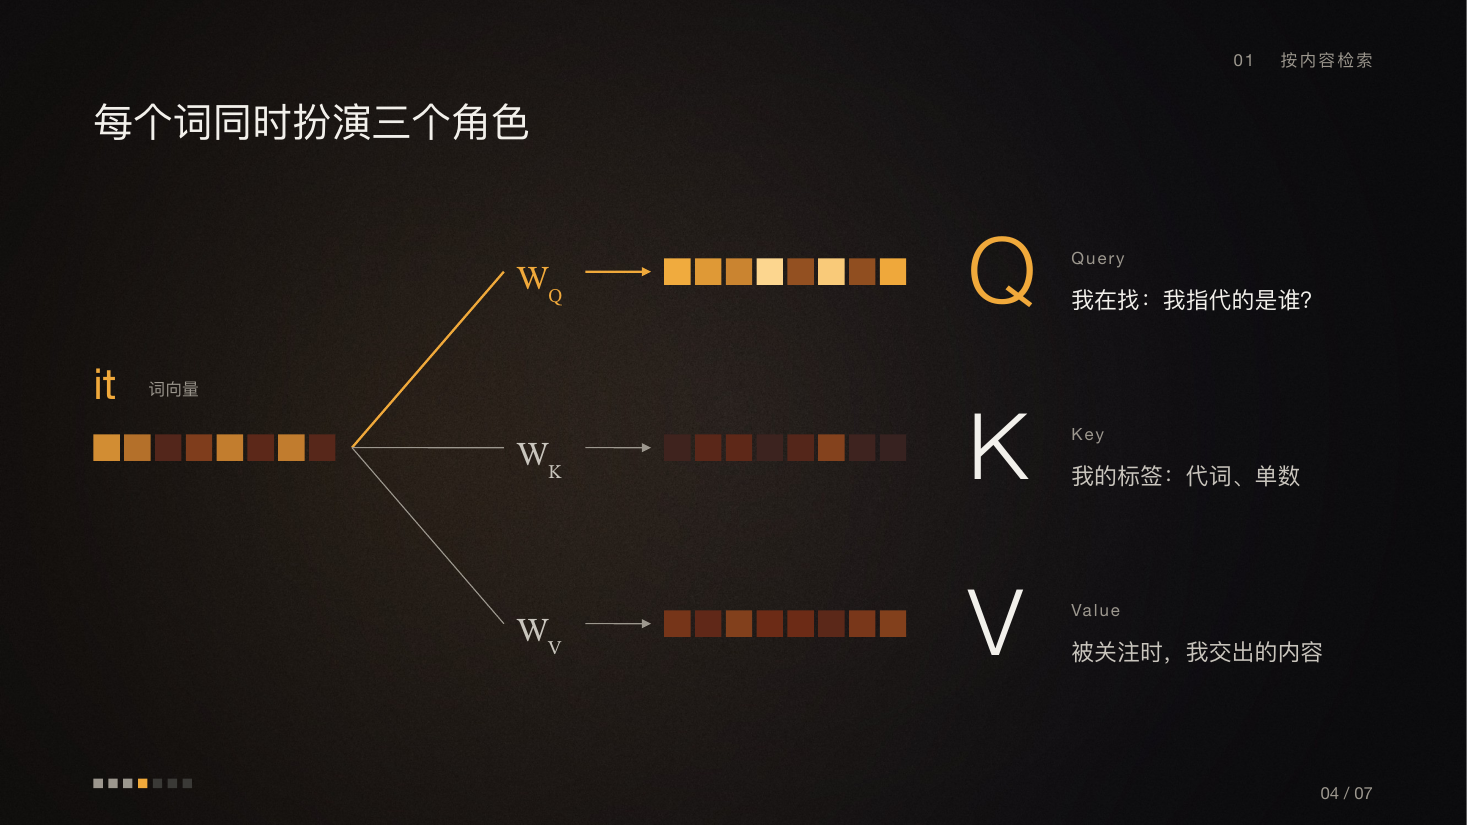
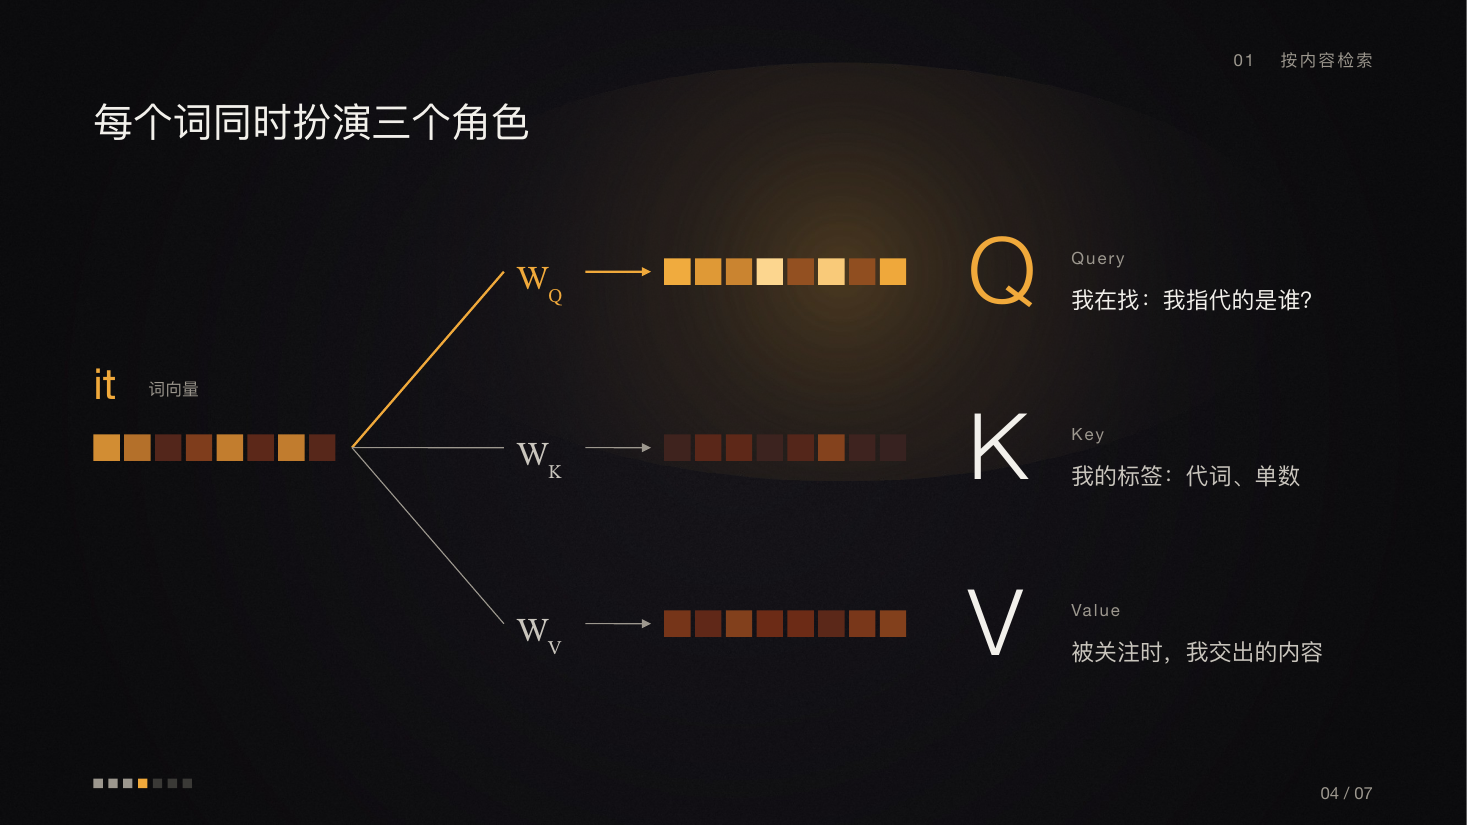
light as a moving spotlight: k.light on each page's focus, gliding with Morph
- kit: k.light({ cx, cy, rx, ry }) — an ellipse whose fill post-processing
  rewrites to a radial gradient fading to the page colour (blends even where
  alpha is ignored) and sends to the back; shared Morph name 'light'
- example: static room texture (grain + vignette); each page lights its own
  focus; deck-wide Morph (1.4 s) makes the light glide between foci
- guides: composition (light on the visual center), motion (moving light),
  engine API

Changed region(s): [[0.5215, 0.2121, 0.6442, 0.4242], [0.2761, 0.4848, 0.3067, 0.6061]]

diff --git a/engine/lib/post.js b/engine/lib/post.js
@@ -58,7 +58,30 @@ function timingXml(xml, builds) {
   };
 }
 
-async function postProcess(buffer, { transitions, fontPairs, builds = [] }) {
+// Light pools: replace the placeholder fill of the '!!light' ellipse with a radial gradient that fades to the
+// page colour (so even renderers that ignore alpha blend the edge), and move it to the back of the slide.
+function applyLight(xml, spec) {
+  if (!spec) return xml;
+  const m = xml.match(/<p:sp>(?:(?!<\/p:sp>)[\s\S])*?name="!!light"[\s\S]*?<\/p:sp>/);
+  if (!m) throw new Error('light shape not found');
+  const mid = mixHex(spec.edge, spec.color, 0.45);
+  const a = Math.round(100000 * Math.min(1, spec.strength));
+  const grad = `<a:gradFill rotWithShape="1"><a:gsLst>`
+    + `<a:gs pos="0"><a:srgbClr val="${spec.color}"><a:alpha val="${a}"/></a:srgbClr></a:gs>`
+    + `<a:gs pos="35000"><a:srgbClr val="${mid}"><a:alpha val="${Math.round(a * 0.65)}"/></a:srgbClr></a:gs>`
+    + `<a:gs pos="70000"><a:srgbClr val="${mixHex(spec.edge, spec.color, 0.12)}"><a:alpha val="${Math.round(a * 0.2)}"/></a:srgbClr></a:gs>`
+    + `<a:gs pos="100000"><a:srgbClr val="${spec.edge}"><a:alpha val="0"/></a:srgbClr></a:gs>`
+    + `</a:gsLst><a:path path="circle"><a:fillToRect l="50000" t="50000" r="50000" b="50000"/></a:path></a:gradFill>`;
+  const sp = m[0].replace(/<a:solidFill>[\s\S]*?<\/a:solidFill>/, grad);
+  const without = xml.replace(m[0], '');
+  return without.replace(/(<p:spTree>[\s\S]*?<\/p:grpSpPr>)/, `$1${sp}`);
+}
+function mixHex(a, b, t) {
+  const p = [0, 2, 4].map((i) => parseInt(a.slice(i, i + 2), 16)), q = [0, 2, 4].map((i) => parseInt(b.slice(i, i + 2), 16));
+  return p.map((v, i) => Math.round(v + (q[i] - v) * t).toString(16).padStart(2, '0')).join('').toUpperCase();
+}
+
+async function postProcess(buffer, { transitions, fontPairs, builds = [], lights = [] }) {
   const zip = await JSZip.loadAsync(buffer);
   for (let i = 0; i < transitions.length; i++) {
     const file = `ppt/slides/slide${i + 1}.xml`;
@@ -70,6 +93,8 @@ async function postProcess(buffer, { transitions, fontPairs, builds = [] }) {
     }
     const tx = transitionXml(transitions[i]);
     if (tx) xml = xml.replace('</p:clrMapOvr>', `</p:clrMapOvr>${tx}`);
+    if (lights[i] && lights[i].length > 1) throw new Error(`slide ${i + 1}: only one light per slide`);
+    xml = applyLight(xml, lights[i] && lights[i][0]);
     const tm = timingXml(xml, builds[i]);
     if (tm.missing.length) throw new Error(`slide ${i + 1}: build targets not found in XML: ${tm.missing.join(', ')}`);
     if (tm.xml) xml = xml.replace('</p:sld>', `${tm.xml}</p:sld>`);

diff --git a/engine/lib/kit.js b/engine/lib/kit.js
@@ -171,6 +171,20 @@ function makeKit({ pptx, slide, theme, deckDir, slideId, page }) {
     record('shape', o, { allowOverlap: true });
   }
 
+  // ---- light ----
+  // A soft pool of light on the page's focus: an ellipse with a radial gradient fading to the page colour.
+  // Every page's light shares the Morph name 'light', so with Morph transitions it glides from focus to focus.
+  // Post-processing rewrites the fill and sends it to the back.
+  const lights = [];
+  function light(o) { // { cx, cy, rx, ry = rx * 0.75, color = theme.colors.glow, strength = 1 }
+    const rx = o.rx ?? 3.5, ry = o.ry ?? rx * 0.75;
+    const box = { x: o.cx - rx, y: o.cy - ry, w: 2 * rx, h: 2 * ry };
+    slide.addShape(pptx.ShapeType.ellipse, { ...box, fill: { color: 'FF00FF' }, line: { type: 'none' }, objectName: '!!light' });
+    lights.push({ color: color(o.color || theme.colors.glow || 'accent'), edge: bgColor, strength: o.strength ?? 1 });
+    record('light', box, { bleed: true, allowOverlap: true });
+    return box;
+  }
+
   // ---- images ----
   // fit: 'cover' (fill box, crop overflow) | 'contain' (fit inside) ; focus: {x:0..1,y:0..1} crop anchor for cover
   function image(src, o) {
@@ -266,8 +280,8 @@ function makeKit({ pptx, slide, theme, deckDir, slideId, page }) {
   return {
     theme, W, H, M, innerW, colW, col, span, color, face, mix,
     page, // { id, index, total } — for running heads and progress marks
-    text, rect, line, arc, rule, vrule, dot, shape, image, chart, table, bg, bgImage, notes,
-    _qa: () => ({ boxes, bg: bgColor }), _builds: () => builds, _slide: slide, _pptx: pptx,
+    text, rect, line, arc, rule, vrule, dot, shape, image, chart, table, light, bg, bgImage, notes,
+    _qa: () => ({ boxes, bg: bgColor }), _builds: () => builds, _lights: () => lights, _slide: slide, _pptx: pptx,
   };
 }
 

diff --git a/examples/attention/slides/S04-qkv.js b/examples/attention/slides/S04-qkv.js
@@ -1,6 +1,6 @@
 // S04 — 变换流程：it 的词向量经三个矩阵分出 Q / K / V。视觉中心：被点亮的 Q 一行（它要去“找”）。
 // 逐行出现：Q → K → V。q / k / v 与 q-vec 同名，Morph 到 S05。
-const { vector, room, frame } = require('../parts');
+const { vector, frame } = require('../parts');
 
 const ROLES = [
   { L: 'Q', name: 'q', en: 'Query', zh: '我在找：我指代的是谁？', seed: 3, lo: 0.45, hi: 1 },
@@ -14,7 +14,6 @@ module.exports = {
   title: 'Q K V',
   notes: '模型怎么“看”？每个词先派生出三个向量。以 it 为例：词向量分别乘以三个可学习的矩阵 W_Q、W_K、W_V。（单击 1：Query——它在找什么。单击 2：Key——它能被怎样找到。单击 3：Value——被关注时交出的内容。）',
   build(k) {
-    room(k, 'left');
     frame(k, { section: '01', name: '按内容检索' });
     k.text('每个词同时扮演三个角色', { style: 'title', x: k.M.x, y: k.M.top, w: 8, nowrap: true });
 
@@ -25,6 +24,7 @@ module.exports = {
     k.text('词向量', { style: 'caption', x: k.M.x + 0.5, y: inY - 0.6, w: 1.2, nowrap: true });
 
     const opX = k.col(5) - 0.1, outX = k.col(6) + 0.25, letterX = k.col(9) + 0.05, textX = k.col(10);
+    k.light({ cx: outX + 1.6, cy: rows[0] + 0.12, rx: 4.2, ry: 1.9 }); // the Query row
     ROLES.forEach((r, i) => {
       const y = rows[i], hot = i === 0, step = i + 1;
       k.line({ x1: input.right + 0.15, y1: input.cy, x2: opX - 0.12, y2: y + 0.12, color: hot ? 'accent' : 'stone', weight: hot ? 1.5 : 0.75, build: step });

diff --git a/examples/attention/slides/S07-heads.js b/examples/attention/slides/S07-heads.js
@@ -1,6 +1,6 @@
 // S07 — 章节：02 多头注意力。同一间暗室里，一束光分成四束：四张小矩阵，各自照亮不同的规律。
 // 视觉中心：四个头。与整套同一个世界，靠更大的尺度和更多的光来“换气”，不换底色。
-const { matrix, room } = require('../parts');
+const { matrix } = require('../parts');
 
 const HEADS = [
   { name: '指代', f: (r, c) => (r === 6 && c === 1 ? 1 : Math.exp(-Math.abs(r - c) * 2) * 0.3) },
@@ -15,13 +15,13 @@ module.exports = {
   title: '章节：多头注意力',
   notes: '第二部分：一组 Q/K/V 只能学到一种“相关”。多头注意力并行地问多个问题——有的头专门找指代，有的看相邻的词，有的盯着句首。',
   build(k) {
-    room(k, 'right');
     k.text('02', { style: 'number', x: k.M.x, y: 2.0, w: 3, overlap: true, nowrap: true });
     k.text('多头注意力', { style: 'display', x: k.M.x, y: 3.6, w: 5.5, h: 1.25, nowrap: true });
     k.text('同时问多个问题', { style: 'lead', color: 'stone', x: k.M.x, y: 4.95, w: 5, nowrap: true });
 
     const n = 8, cell = 0.21, gap = 0.04, size = n * (cell + gap) - gap;
     const x0 = 6.9, y0 = 1.45, gx = 0.55, gy = 0.75;
+    k.light({ cx: x0 + size + gx / 2, cy: y0 + size + gy / 2, rx: 4.4, ry: 3.6 }); // the four heads
     HEADS.forEach((h, i) => {
       const x = x0 + (i % 2) * (size + gx), y = y0 + Math.floor(i / 2) * (size + gy);
       matrix(k, { x, y, n, cell, gap, weight: h.f, build: [1, 0, i * 150] }); // each head at once, 150 ms apart

diff --git a/examples/attention/slides/S05-match.js b/examples/attention/slides/S05-match.js
@@ -1,6 +1,6 @@
 // S05 — 匹配 ★：it 的 Q 依次与各词的 K 比较，得分经 softmax 变成权重；权重按亮度点亮，最亮的是 animal。
 // 视觉中心：0.46 那根最亮的权重条。Morph 自 S04（q / k / v / q-vec 同名）。权重与 S03 一致（节选）。
-const { vector, heat, room, frame } = require('../parts');
+const { vector, heat, frame } = require('../parts');
 
 const KEYS = [
   { t: 'The', w: 0.02, seed: 21 },
@@ -14,10 +14,8 @@ module.exports = {
   id: 'S05',
   rhythm: 'dense',
   title: 'Q 与 K 匹配',
-  transition: 'morph',
   notes: 'it 的 Query 依次与每个词的 Key 做点积，得到匹配分数（单击 1）；softmax 把分数变成权重——animal 最亮，0.46（单击 2）；最后按权重把各词的 Value 加权求和，得到 it 的新表示（单击 3）。图中只列出 5 个词，权重为示意值。',
   build(k) {
-    room(k, 'right');
     frame(k, { section: '01', name: '按内容检索' });
     k.text('匹配度，决定从每个词取多少', { style: 'title', x: k.M.x, y: k.M.top, w: 9, nowrap: true });
 
@@ -45,6 +43,7 @@ module.exports = {
 
     // ③ softmax weights — the light
     const barX = keyRight + 0.5, barMax = 2.7;
+    k.light({ cx: barX + 1.3, cy: rowsY[1] + 0.12, rx: 3.6, ry: 2.2 }); // the 0.46 bar
     k.text('softmax 权重', { style: 'label', x: barX, y: top - 0.62, w: 2, nowrap: true });
     KEYS.forEach((r, i) => {
       const y = rowsY[i], lit = r.w >= 0.4, bw = Math.max(0.05, (r.w / 0.5) * barMax);

diff --git a/examples/attention/slides/S06-cost.js b/examples/attention/slides/S06-cost.js
@@ -1,6 +1,6 @@
 // S06 — 代价：每个词都要看每个词，矩阵是 n × n。长度翻倍，格子变为四倍。视觉中心：最大的那张矩阵。
 // 逐步出现：4×4 → 8×8 → 16×16，每次一个 ×4。格子数量是准确的（16、64、256）。
-const { matrix, room, frame, dim } = require('../parts');
+const { matrix, frame, dim } = require('../parts');
 
 const pattern = (n) => (r, c) => {
   const local = Math.exp(-Math.abs(r - c) * (6 / n)) * 0.75;
@@ -14,13 +14,14 @@ module.exports = {
   title: '平方代价',
   notes: '代价在这里：每个词都要看每个词，所以注意力矩阵是 n × n。（单击 1：长度从 4 到 8，格子从 16 到 64。单击 2：到 16，格子 256。）长度每翻一倍，计算量和显存约变为四倍——这也是长文本昂贵的根本原因。',
   build(k) {
-    room(k, 'right');
     frame(k, { section: '01', name: '按内容检索' });
     k.text([{ text: '长度翻倍，代价变为' }, { text: '四倍', color: 'accent' }], { style: 'title', x: k.M.x, y: k.M.top, w: 9, nowrap: true });
 
     const pitch = 0.205, gap = 0.035, cell = pitch - gap;
     const baseY = 5.75; // shared baseline: matrices sit on it
     const specs = [{ n: 4, x: k.M.x + 0.3 }, { n: 8, x: 3.35 }, { n: 16, x: 6.7 }];
+    const big = 16 * pitch - gap;
+    k.light({ cx: specs[2].x + big / 2, cy: baseY - big / 2, rx: 3.6, ry: 3.1 }); // the largest matrix
     let prev;
     specs.forEach((s, i) => {
       const size = s.n * pitch - gap;

diff --git a/examples/attention/slides/S03-light.js b/examples/attention/slides/S03-light.js
@@ -1,15 +1,13 @@
 // S03 — 光 ★：从 it 出发，向每个词伸出一道弧；弧的粗细与亮度就是注意力。最粗最亮的一道落在 animal 上。
 // 视觉中心：it → animal 的弧与被点亮的 animal。Morph 自 S02（tok-* 同名同位）。
-const { TOKENS, IT, WEIGHTS, heat, room, frame, sentence, leader } = require('../parts');
+const { TOKENS, IT, WEIGHTS, heat, frame, sentence, leader } = require('../parts');
 
 module.exports = {
   id: 'S03',
   rhythm: 'dense',
   title: 'it 看向 animal',
-  transition: 'morph',
   notes: '模型的做法：让 it 去“看”句子里的每一个词，并给每个词一个注意力权重。（单击 1：微弱的连线依次亮起。单击 2：street 和 animal 两道最亮的弧。单击 3：结论。）animal 拿到 0.46，street 0.17——it 指的是 animal。权重为示意值。',
   build(k) {
-    room(k, 'it');
     frame(k, { section: '01', name: '按内容检索' });
     k.text([
       { text: 'it', font: 'latin', color: 'accent' },
@@ -20,6 +18,7 @@ module.exports = {
     const xs = sentence(k);
     const y = 4.95, base = y - 0.1;
     const it = xs[IT];
+    k.light({ cx: xs[1].cx + (it.cx - xs[1].cx) * 0.3, cy: base - 0.7, rx: 4.6, ry: 2.8 }); // the light moves onto animal
     // arcs: weak first (click 1, staggered), then the two strong ones (click 2)
     const order = TOKENS.map((_, i) => i).filter((i) => i !== IT).sort((a, b) => WEIGHTS[a] - WEIGHTS[b]);
     let weak = 0;

diff --git a/engine/make.js b/engine/make.js
@@ -66,7 +66,7 @@ async function build(opt) {
   pptx.title = deck.title || name;
   if (deck.author) pptx.author = deck.author;
 
-  const manifest = [], transitions = [], reports = [], builds = [];
+  const manifest = [], transitions = [], reports = [], builds = [], lights = [];
   for (const [index, id] of deck.slides.entries()) {
     const file = findSlideFile(opt.dir, id);
     const mod = fresh(file);
@@ -82,13 +82,14 @@ async function build(opt) {
     if (mod.notes) k.notes(String(mod.notes).trim());
     transitions.push(mod.transition || theme.transition || 'none');
     builds.push(k._builds());
+    lights.push(k._lights());
     manifest.push({ id, index: index + 1, title: mod.title || '', rhythm: mod.rhythm || '', file: path.relative(opt.dir, file) });
     const q = k._qa();
     reports.push(check({ id, boxes: q.boxes, bg: q.bg, W, H, M: k.M, rhythm: mod.rhythm, textOnly: mod.textOnly }));
   }
 
   const raw = await pptx.write({ outputType: 'nodebuffer' });
-  const buf = await postProcess(raw, { transitions, fontPairs: theme.fontPairs, builds });
+  const buf = await postProcess(raw, { transitions, fontPairs: theme.fontPairs, builds, lights });
   const outDir = path.join(opt.dir, 'out');
   fs.mkdirSync(outDir, { recursive: true });
   const pptxPath = path.join(outDir, `${name}.pptx`);

diff --git a/examples/attention/theme.js b/examples/attention/theme.js
@@ -15,6 +15,7 @@ module.exports = {
     accent: 'F0A93B',    // amber: attention, light
     hot: 'FFE2A6',       // the brightest point on a page
     ember: '6B2A16',     // dim heat
+    glow: '4A3820',      // the light pool on each page's focus (k.light)
   },
   fonts: {
     sans: 'PingFang SC',
@@ -23,8 +24,9 @@ module.exports = {
     mono: 'Menlo',
   },
   fontPairs: { 'PingFang SC': 'Helvetica Neue' }, // regular weight only — see typography.md
-  // Default ground; pages pick a texture lit from where their visual center is (parts.room).
-  backgroundImages: { paper: 'assets/room-center.jpg' },
+  // The room: base + very fine grain + darkened corners. The light itself is a shape (k.light) on each page's focus,
+  // so it can glide between pages with Morph.
+  backgroundImages: { paper: 'assets/room.jpg' },
   grid: { margin: { x: 0.85, top: 0.75, bottom: 0.6 }, cols: 12, gutter: 0.22 },
   type: {
     display: { font: 'sans', size: 60, leading: 1.15, color: 'ink' },
@@ -40,5 +42,5 @@ module.exports = {
     math: { font: 'STIX Two Math', size: 22, leading: 1.2, color: 'graphite' },
   },
   chart: { series: ['accent', 'stone'] },
-  transition: 'fade',
+  transition: { type: 'morph', duration: 1400 }, // every page: the light glides to the next focus
 };

diff --git a/examples/attention/slides/S02-question.js b/examples/attention/slides/S02-question.js
@@ -1,6 +1,6 @@
 // S02 — 问题：一句话里的词都还暗着，只有 it 亮着。它指的是谁？两条虚线伸向两个候选。视觉中心：it。
 // 词的位置与 S03 完全相同（同名 tok-*），下一页 Morph 时，光从这里开始蔓延。
-const { TOKENS, IT, room, frame, sentence } = require('../parts');
+const { TOKENS, IT, frame, sentence } = require('../parts');
 
 module.exports = {
   id: 'S02',
@@ -8,12 +8,12 @@ module.exports = {
   title: 'it 指的是谁',
   notes: '先抛出问题：这句话里的 it，指的是 animal 还是 street？人一眼就知道，因为我们会“看”上下文。模型要怎么做到？（单击：两条虚线伸向两个候选。）',
   build(k) {
-    room(k, 'it');
     frame(k, { section: '01', name: '按内容检索' });
     k.text('一个词的含义，取决于它在看谁', { style: 'statement', x: k.M.x, y: 1.2, w: 10, nowrap: true });
 
     const xs = sentence(k);
     const y = 4.95;
+    k.light({ cx: xs[IT].cx, cy: y + 0.2, rx: 2.6, ry: 1.9 }); // only “it” is lit
     xs.forEach((p, i) => {
       k.text(TOKENS[i], { style: 'word', color: i === IT ? 'hot' : 'stone', x: p.x - 0.1, y, w: p.w + 0.2, h: 0.5, align: 'center', nowrap: true, name: `tok-${i}` });
     });

diff --git a/examples/attention/slides/S01-cover.js b/examples/attention/slides/S01-cover.js
@@ -1,5 +1,5 @@
 // S01 — 封面 ★：暗室里一张注意力矩阵是唯一的光源；最亮的一格是 it → animal。视觉中心：那一格。
-const { TOKENS, IT, heat, room } = require('../parts');
+const { TOKENS, IT, heat } = require('../parts');
 
 function weight(r, c) {
   if (r === IT && c === 1) return 1;                      // it → animal
@@ -16,9 +16,9 @@ module.exports = {
   transition: 'none',
   notes: '开场：今天只讲一个想法——注意力机制本质上是一次“按内容检索”。右侧是例句的注意力矩阵（示意），最亮的格子是 it 看向 animal。',
   build(k) {
-    room(k, 'cover');
     const N = TOKENS.length, cell = 0.5, gap = 0.06, pitch = cell + gap;
     const x0 = k.W - 0.55 - N * pitch + gap, y0 = (k.H - (N * pitch - gap)) / 2;
+    k.light({ cx: x0 + 1 * pitch + cell / 2, cy: y0 + IT * pitch + cell / 2, rx: 5, ry: 4.2, strength: 1 });
     for (let r = 0; r < N; r++) {
       for (let c = 0; c < N; c++) k.rect({ x: x0 + c * pitch, y: y0 + r * pitch, w: cell, h: cell, fill: heat(k, weight(r, c)) });
       k.text(TOKENS[r], { style: 'caption', font: 'latin', color: r === IT ? 'accent' : 'stone', x: x0 - 1.1, y: y0 + r * pitch + 0.12, w: 1.0, align: 'right', nowrap: true });

diff --git a/examples/attention/parts.js b/examples/attention/parts.js
@@ -25,10 +25,6 @@ function heat(k, t) {
   return k.color('hot');
 }
 
-// Lit room: the page texture with its light falloff placed behind the page's visual center
-// (generated with engine/texture.js --light; see assets/).
-function room(k, where) { k.bgImage(`assets/room-${where}.jpg`); }
-
 // A row of n cells (a vector), brightness from heat(). build = [step, delay] staggers the cells.
 function vector(k, { x, y, n = 8, cell = 0.24, gap = 0.04, seed = 1, lo = 0.1, hi = 0.6, name, build }) {
   values(seed, n).forEach((v, i) => {
@@ -89,4 +85,4 @@ function leader(k, { from, to, color = 'stone', dot = 'accent', build }) {
   k.dot({ cx: to.x, cy: to.y, r: 0.05, fill: dot, build });
 }
 
-module.exports = { TOKENS, IT, WEIGHTS, values, heat, room, vector, matrix, sentence, frame, dim, leader };
+module.exports = { TOKENS, IT, WEIGHTS, values, heat, vector, matrix, sentence, frame, dim, leader };
